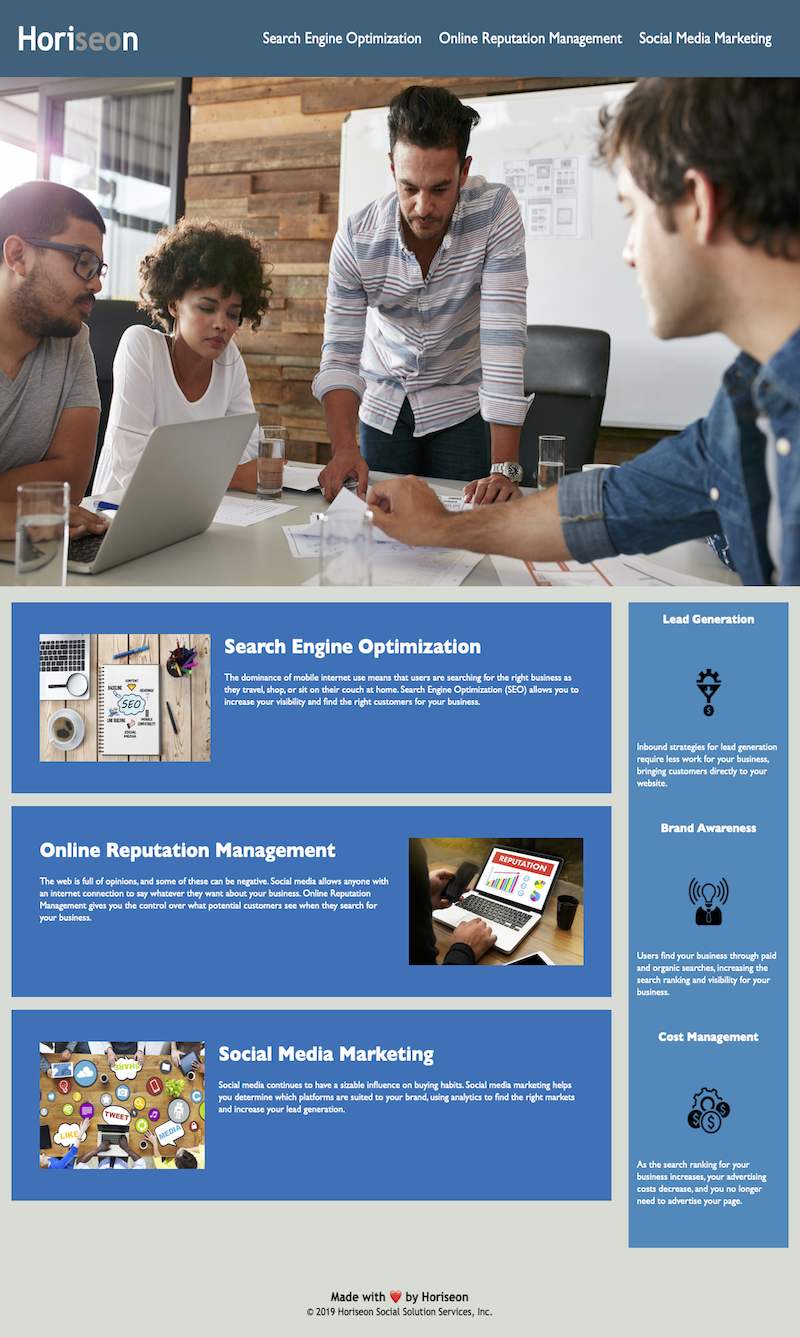
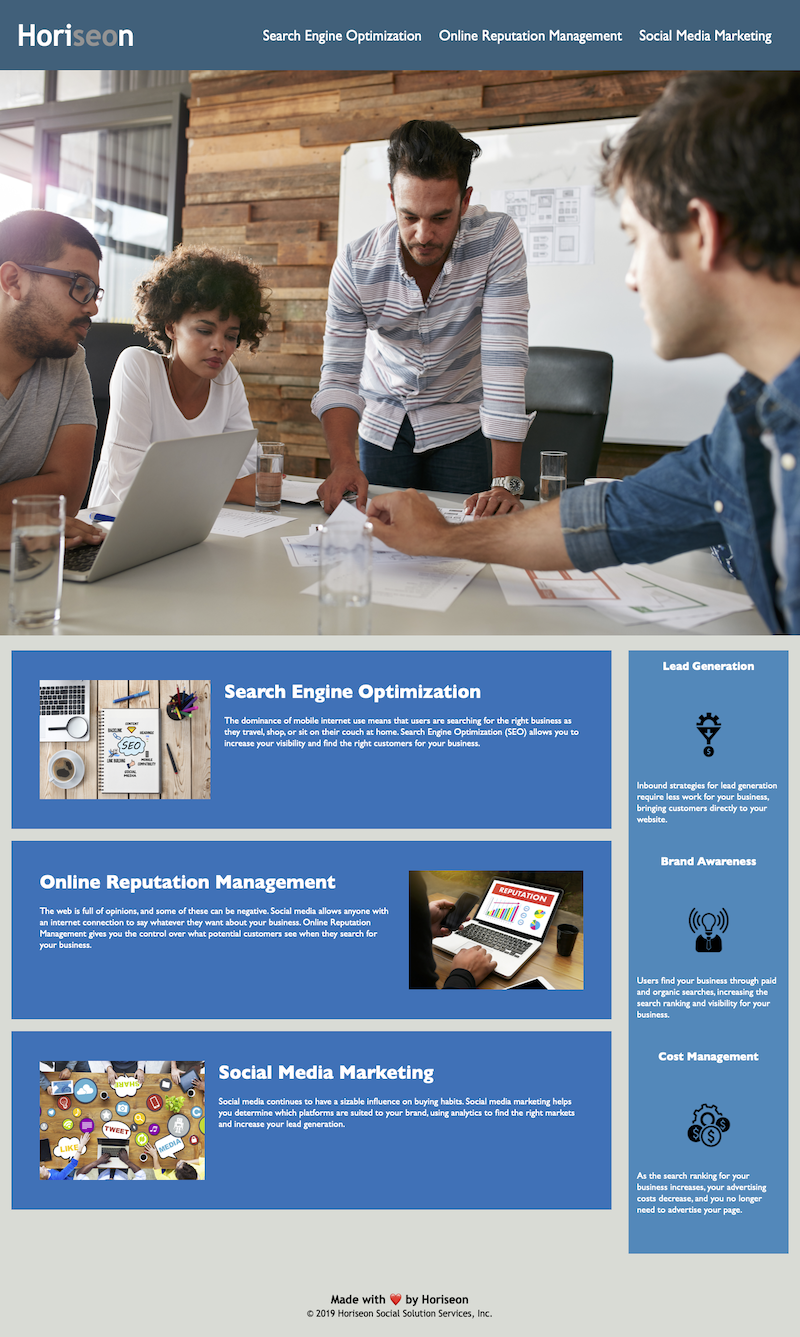
last update

diff --git a/assets/css/style.css b/assets/css/style.css
@@ -1,5 +1,5 @@
 * {
-    box-sizing: border-box;
+    box-sizing:border-box;
     padding: 0;
     margin: 0;
 }
@@ -18,7 +18,7 @@ header {
 /* Increased font size of Horiseon header */
 header h1 {
     display: inline-block;
-    font-size: 52px;
+    font-size:50px;
 }
 
 header h1 #seo {
@@ -41,7 +41,7 @@ header nav ul {
 header nav ul li {
     display: inline-block;
     margin-left: 25px;
-    font-size: 25px;;
+    font-size: 25px;
 }
 
 /* Added text decoration and changed it to none to remove underline */
@@ -55,7 +55,7 @@ p {
 }
 
 #hero {
-    height: 800px;
+    height: 950px;
     width: 100%;
     margin-bottom: 25px;
     background-image: url("../images/digital-marketing-meeting.jpg"); alt:"background";
